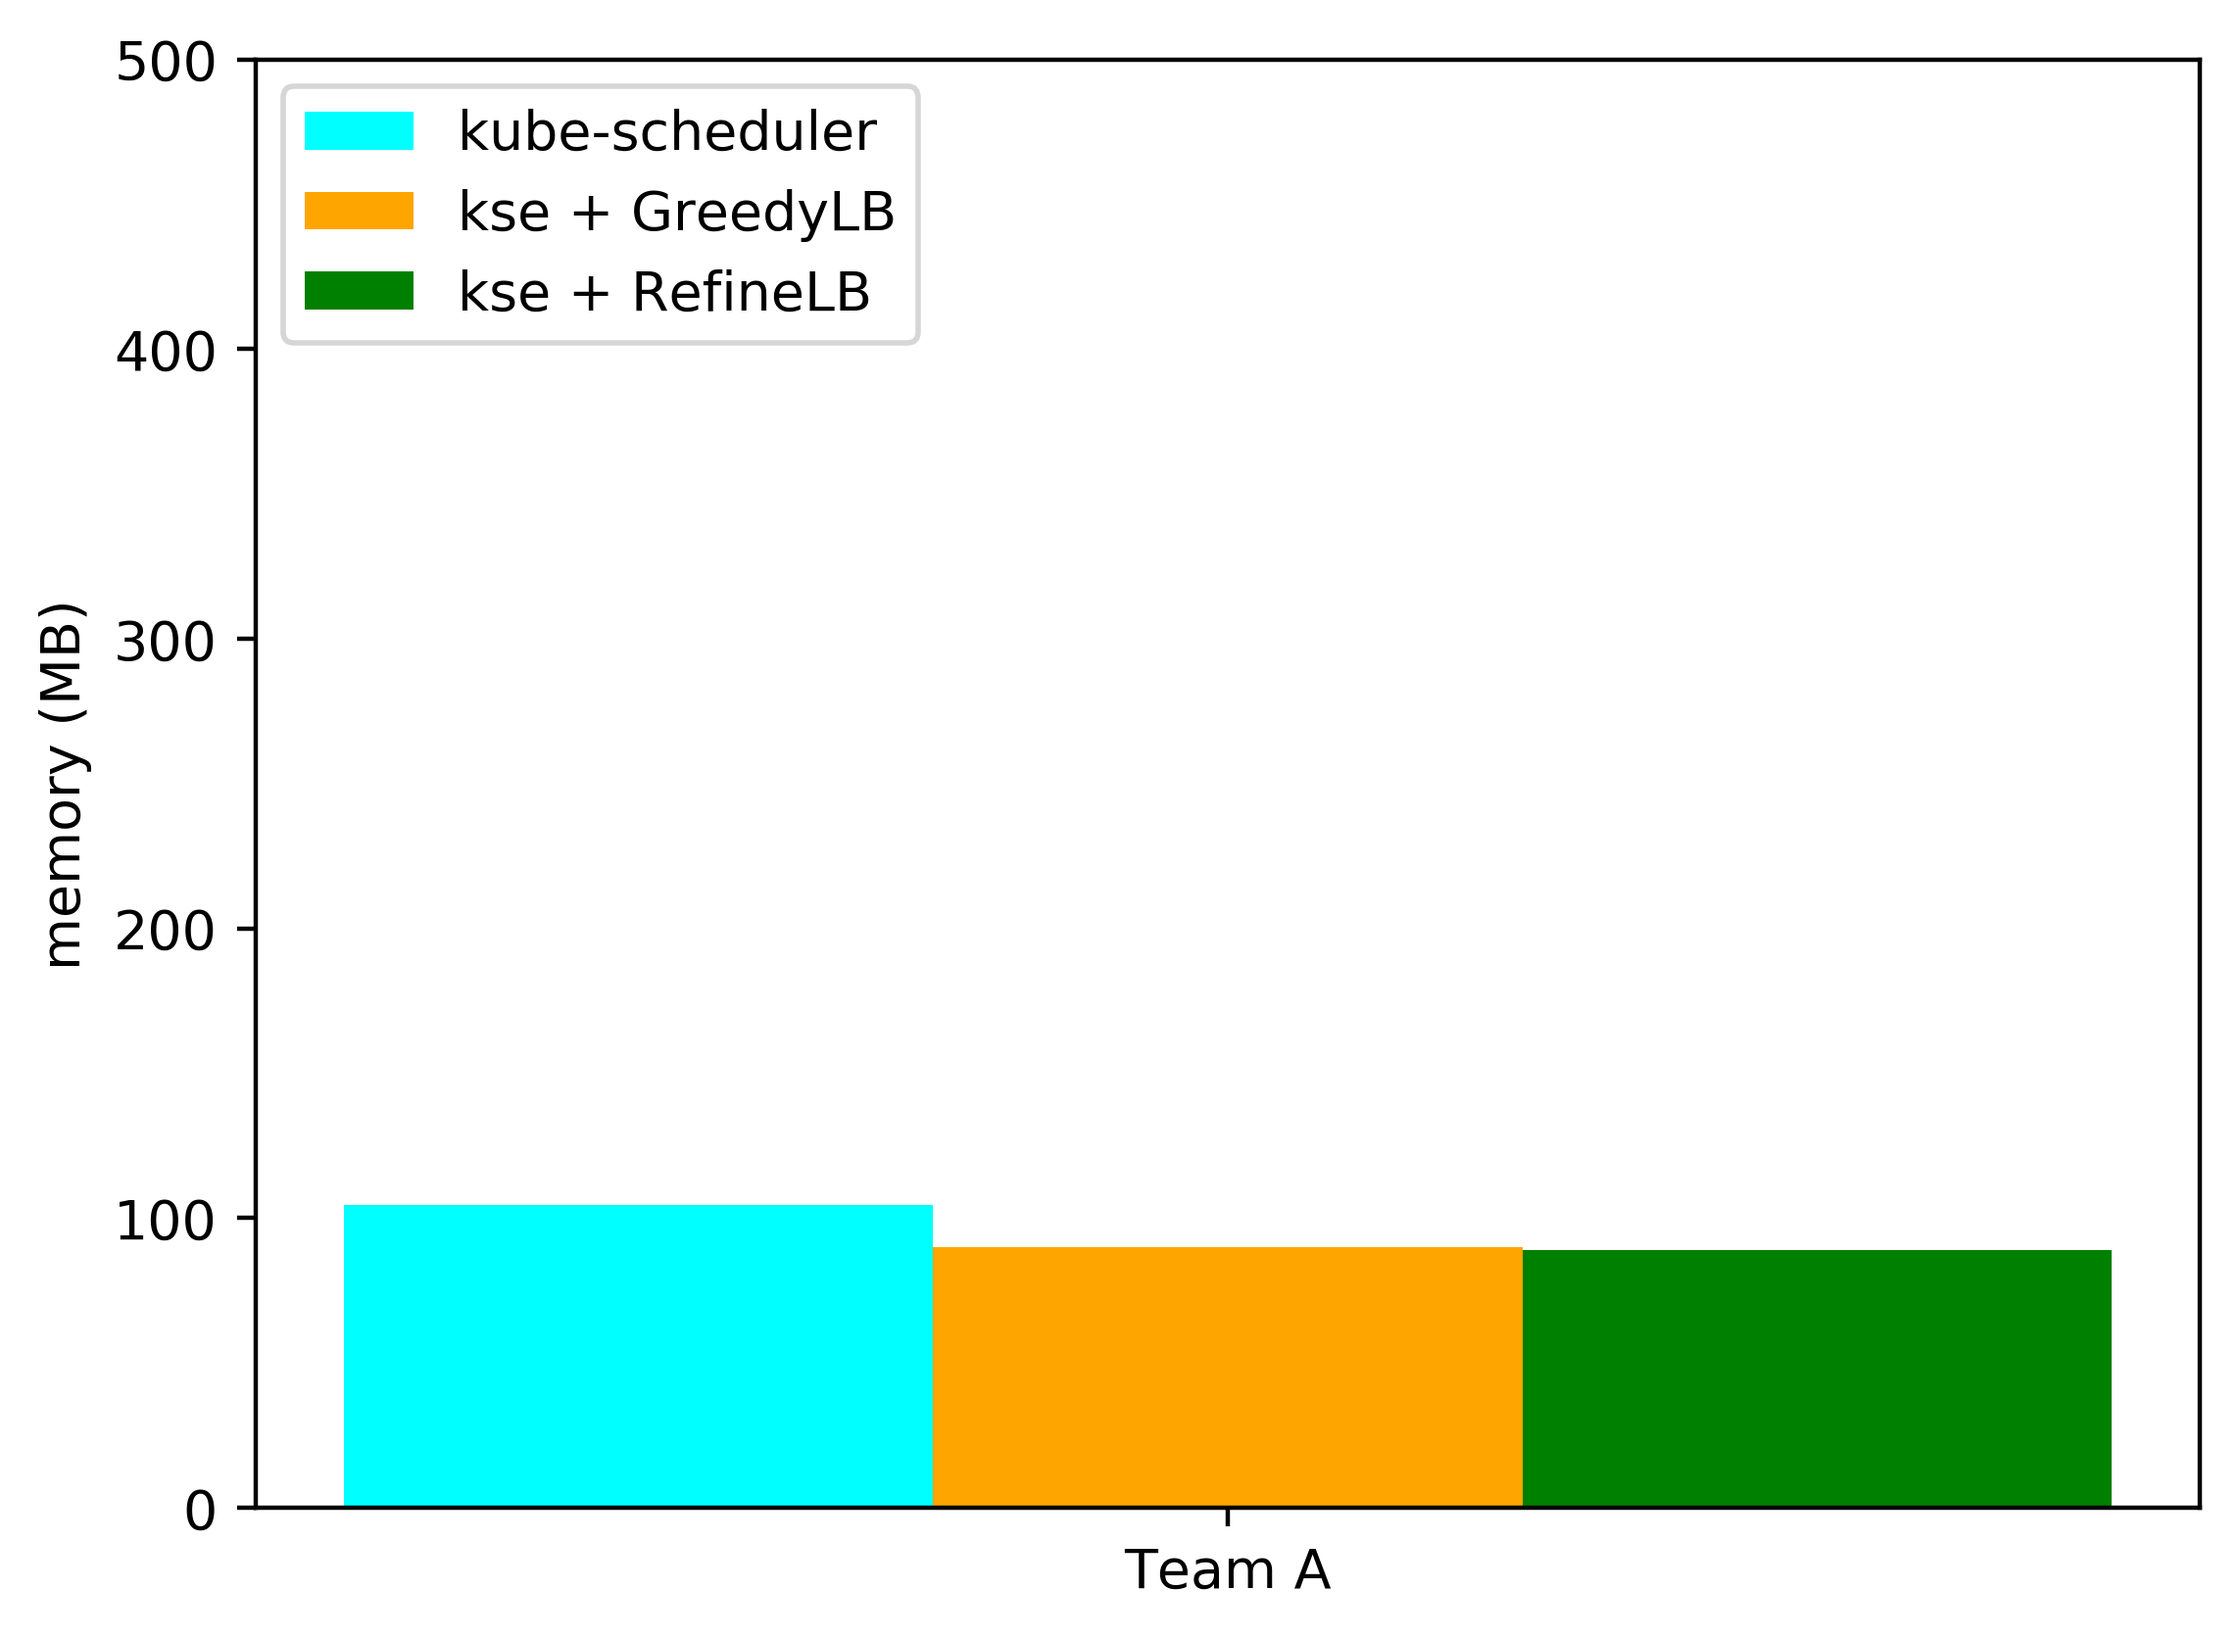
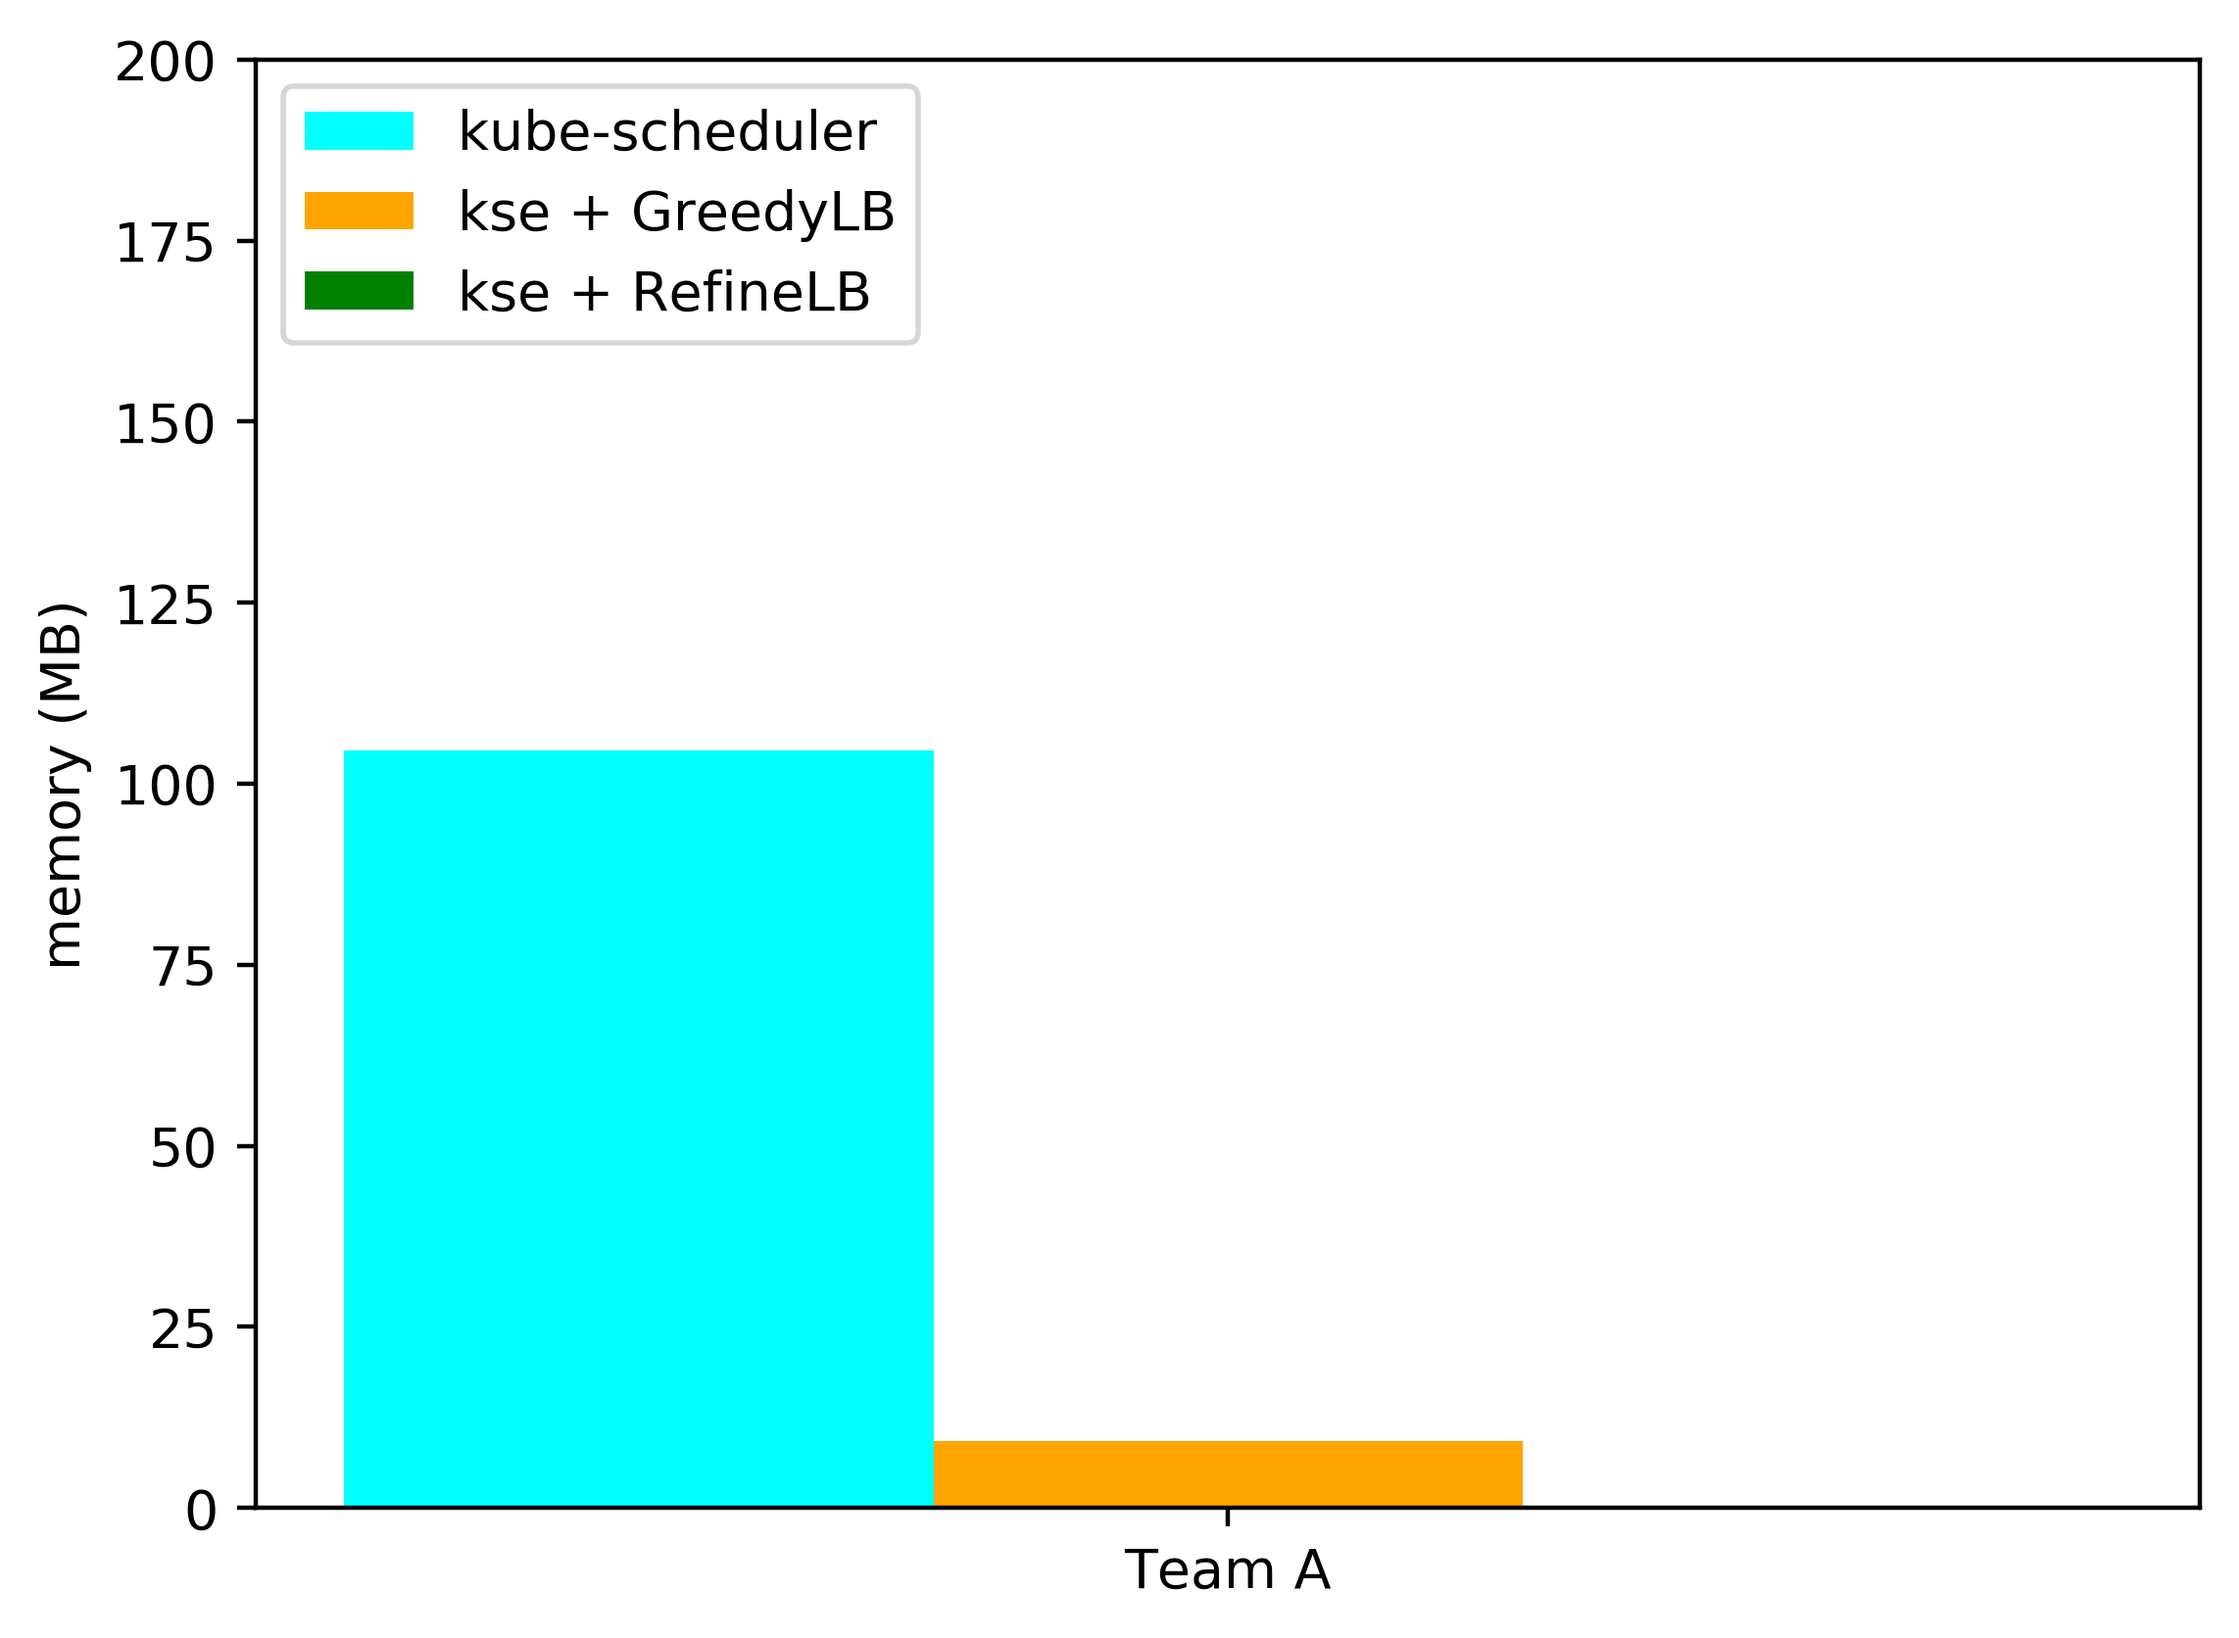
update

diff --git a/sd_graphics.py b/sd_graphics.py
@@ -6,16 +6,16 @@ import sys
 
 def save_graphic(value1, value2, value3, metric, filename):
   if metric == 'memory':
-    plt.ylim(0, 500)
+    plt.ylim(0, 200)
     plt.ylabel('memory (MB)')
   elif metric == 'cpu':
     plt.ylim(0, 200)
     plt.ylabel('CPU (millicpu)')
 
   x = np.arange(1)
-  y1 = [float(value1), 56, 12, 89, 67]
-  y2 = [12, 56, 78, 45, 90]
-  y3 = [14, 23, 45, 25, 89]
+  y1 = [float(value1)]
+  y2 = [float(value2)]
+  y3 = [float(value3)]
   width = 0.2
   
   plt.bar(x-0.2, y1, width, label='kube-scheduler', color='cyan')
